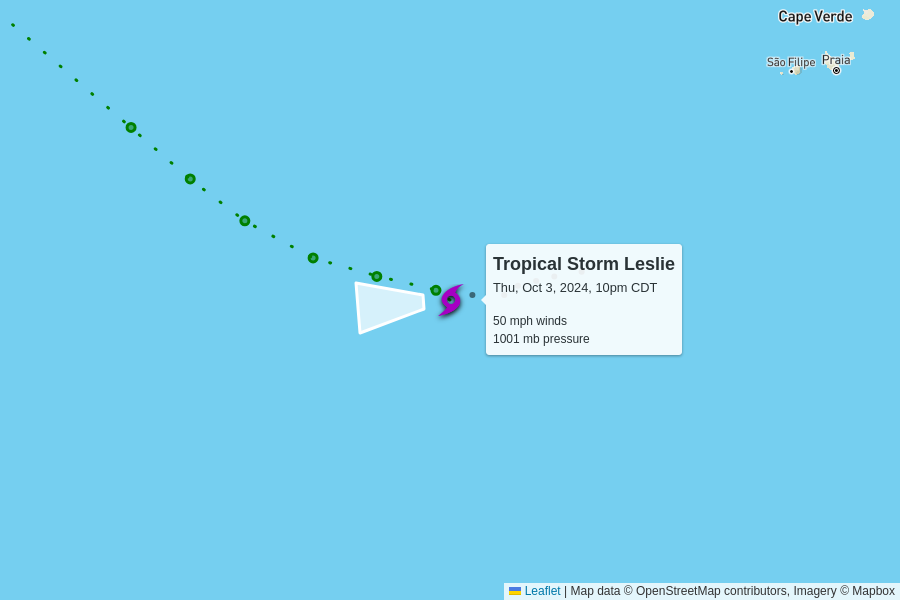
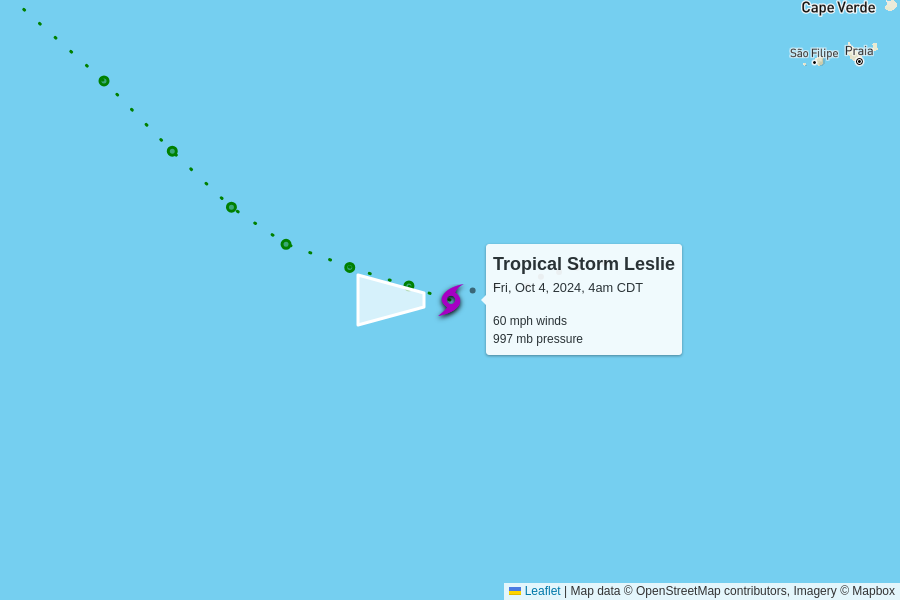
automatic update

diff --git a/docs/index.html b/docs/index.html
@@ -104,7 +104,7 @@
         <td colspan="6" class="storm category-4" >
           <h2>
             Hurricane Kirk - Category 4
-            <p class="updated">last updated <span data-time>2024-10-04T03:00:00.000Z</span></p>
+            <p class="updated">last updated <span data-time>2024-10-04T09:00:00.000Z</span></p>
           </h2>
         </td>
       </tr>
@@ -119,12 +119,12 @@
       </tr>
       <tr>
         <td class="spacer"></td>
-        <td>145 mph<br>+15 mph since last update</td>
-        <td>935 mb<br>-10 mb since last update</td>
+        <td>145 mph<br>0 mph since last update</td>
+        <td>934 mb<br>-1 mb since last update</td>
         <td>
           10 mph to the northwest
           <br/>
-          <span style="display: inline-block; font-size: 1.5em; transform: rotate(305deg);">↑</span>
+          <span style="display: inline-block; font-size: 1.5em; transform: rotate(310deg);">↑</span>
         </td>
         <td><a href="https://raw.githubusercontent.com/mgwalker/atlantic-hurricanes/main/data/csv/AL122024.csv">AL122024.csv</a></td>
         <td><a href="https://www.nhc.noaa.gov/archive/2024/KIRK.shtml?">NHC advisories</a></td>
@@ -148,7 +148,7 @@
         <td colspan="6" class="storm category-0" >
           <h2>
             Tropical Storm Leslie
-            <p class="updated">last updated <span data-time>2024-10-04T03:00:00.000Z</span></p>
+            <p class="updated">last updated <span data-time>2024-10-04T09:00:00.000Z</span></p>
           </h2>
         </td>
       </tr>
@@ -163,12 +163,12 @@
       </tr>
       <tr>
         <td class="spacer"></td>
-        <td>50 mph<br>0 mph since last update</td>
-        <td>1001 mb<br>0 mb since last update</td>
+        <td>60 mph<br>+10 mph since last update</td>
+        <td>997 mb<br>-4 mb since last update</td>
         <td>
           6 mph to the west
           <br/>
-          <span style="display: inline-block; font-size: 1.5em; transform: rotate(265deg);">↑</span>
+          <span style="display: inline-block; font-size: 1.5em; transform: rotate(270deg);">↑</span>
         </td>
         <td><a href="https://raw.githubusercontent.com/mgwalker/atlantic-hurricanes/main/data/csv/AL132024.csv">AL132024.csv</a></td>
         <td><a href="https://www.nhc.noaa.gov/archive/2024/LESLIE.shtml?">NHC advisories</a></td>
